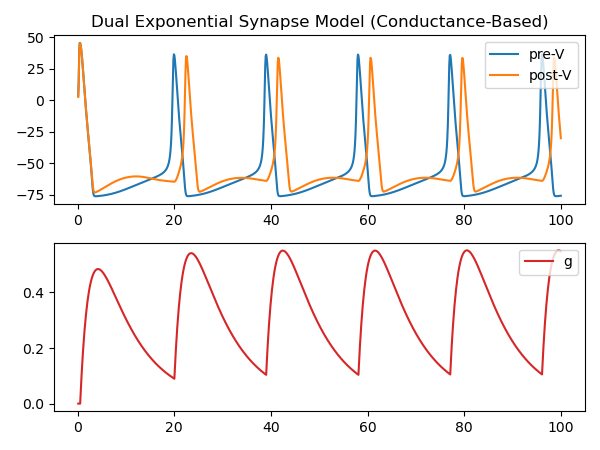
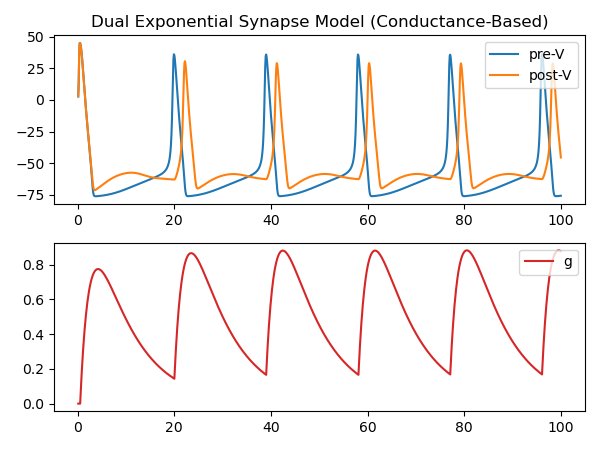
modify the Dual Synapse model

diff --git a/synapes_models/dual_exponential.py b/synapes_models/dual_exponential.py
@@ -5,7 +5,7 @@ from run_synapse import run_syn
 
 
 class DualExponential(bp.dyn.TwoEndConn):
-	def __init__(self, pre, post, conn, g_max=1., tau_decay=8., tau_rise=2., delay_step=2,
+	def __init__(self, pre, post, conn, g_max=0.6, tau_decay=8., tau_rise=2., delay_step=2,
 	             E=0., syn_type='CUBA', method='exp_auto', **kwargs):
 		super(DualExponential, self).__init__(pre=pre, post=post, conn=conn, **kwargs)
 		self.check_pre_attrs('spike')
@@ -15,7 +15,6 @@ class DualExponential(bp.dyn.TwoEndConn):
 		self.tau_decay = tau_decay
 		self.tau_rise = tau_rise
 		self.g_max = g_max
-		self.h_max = (tau_decay - tau_rise) / (tau_decay * tau_rise)
 		self.delay_step = delay_step
 		self.E = E
 
@@ -32,7 +31,7 @@ class DualExponential(bp.dyn.TwoEndConn):
 
 		# 定义微分方程及其对应的积分函数
 		self.int_h = bp.odeint(method=method, f=lambda h, t: -h / self.tau_rise)
-		self.int_g = bp.odeint(method=method, f=lambda g, t, h: -g / self.tau_decay + h * self.g_max)
+		self.int_g = bp.odeint(method=method, f=lambda g, t, h: -g / self.tau_decay + h)
 
 	def update(self, _t, _dt):
 		# 将突触前神经元传来的信号延迟delay_step的时间步长
@@ -40,7 +39,7 @@ class DualExponential(bp.dyn.TwoEndConn):
 		self.delay.update(self.pre.spike)
 
 		# 根据连接模式计算各个突触后神经元收到的信号强度
-		post_sp = bm.pre2post_event_sum(delayed_pre_spike, self.pre2post, self.post.num, self.h_max)
+		post_sp = bm.pre2post_event_sum(delayed_pre_spike, self.pre2post, self.post.num, self.g_max)
 		# 突触的电导g的更新包括常规积分和突触前脉冲带来的跃变
 		self.h.value = self.int_h(self.h, _t) + post_sp
 		self.g.value = self.int_g(self.g, _t, self.h)
@@ -52,5 +51,5 @@ class DualExponential(bp.dyn.TwoEndConn):
 			self.post.input += self.g * (self.E - self.post.V)
 
 
-run_syn(DualExponential, syn_type='CUBA', title='Dual Exponential Synapse Model (Current-Based)')
-run_syn(DualExponential, syn_type='COBA', title='Dual Exponential Synapse Model (Conductance-Based)')
+# run_syn(DualExponential, syn_type='CUBA', title='Dual Exponential Synapse Model (Current-Based)')
+# run_syn(DualExponential, syn_type='COBA', title='Dual Exponential Synapse Model (Conductance-Based)')
